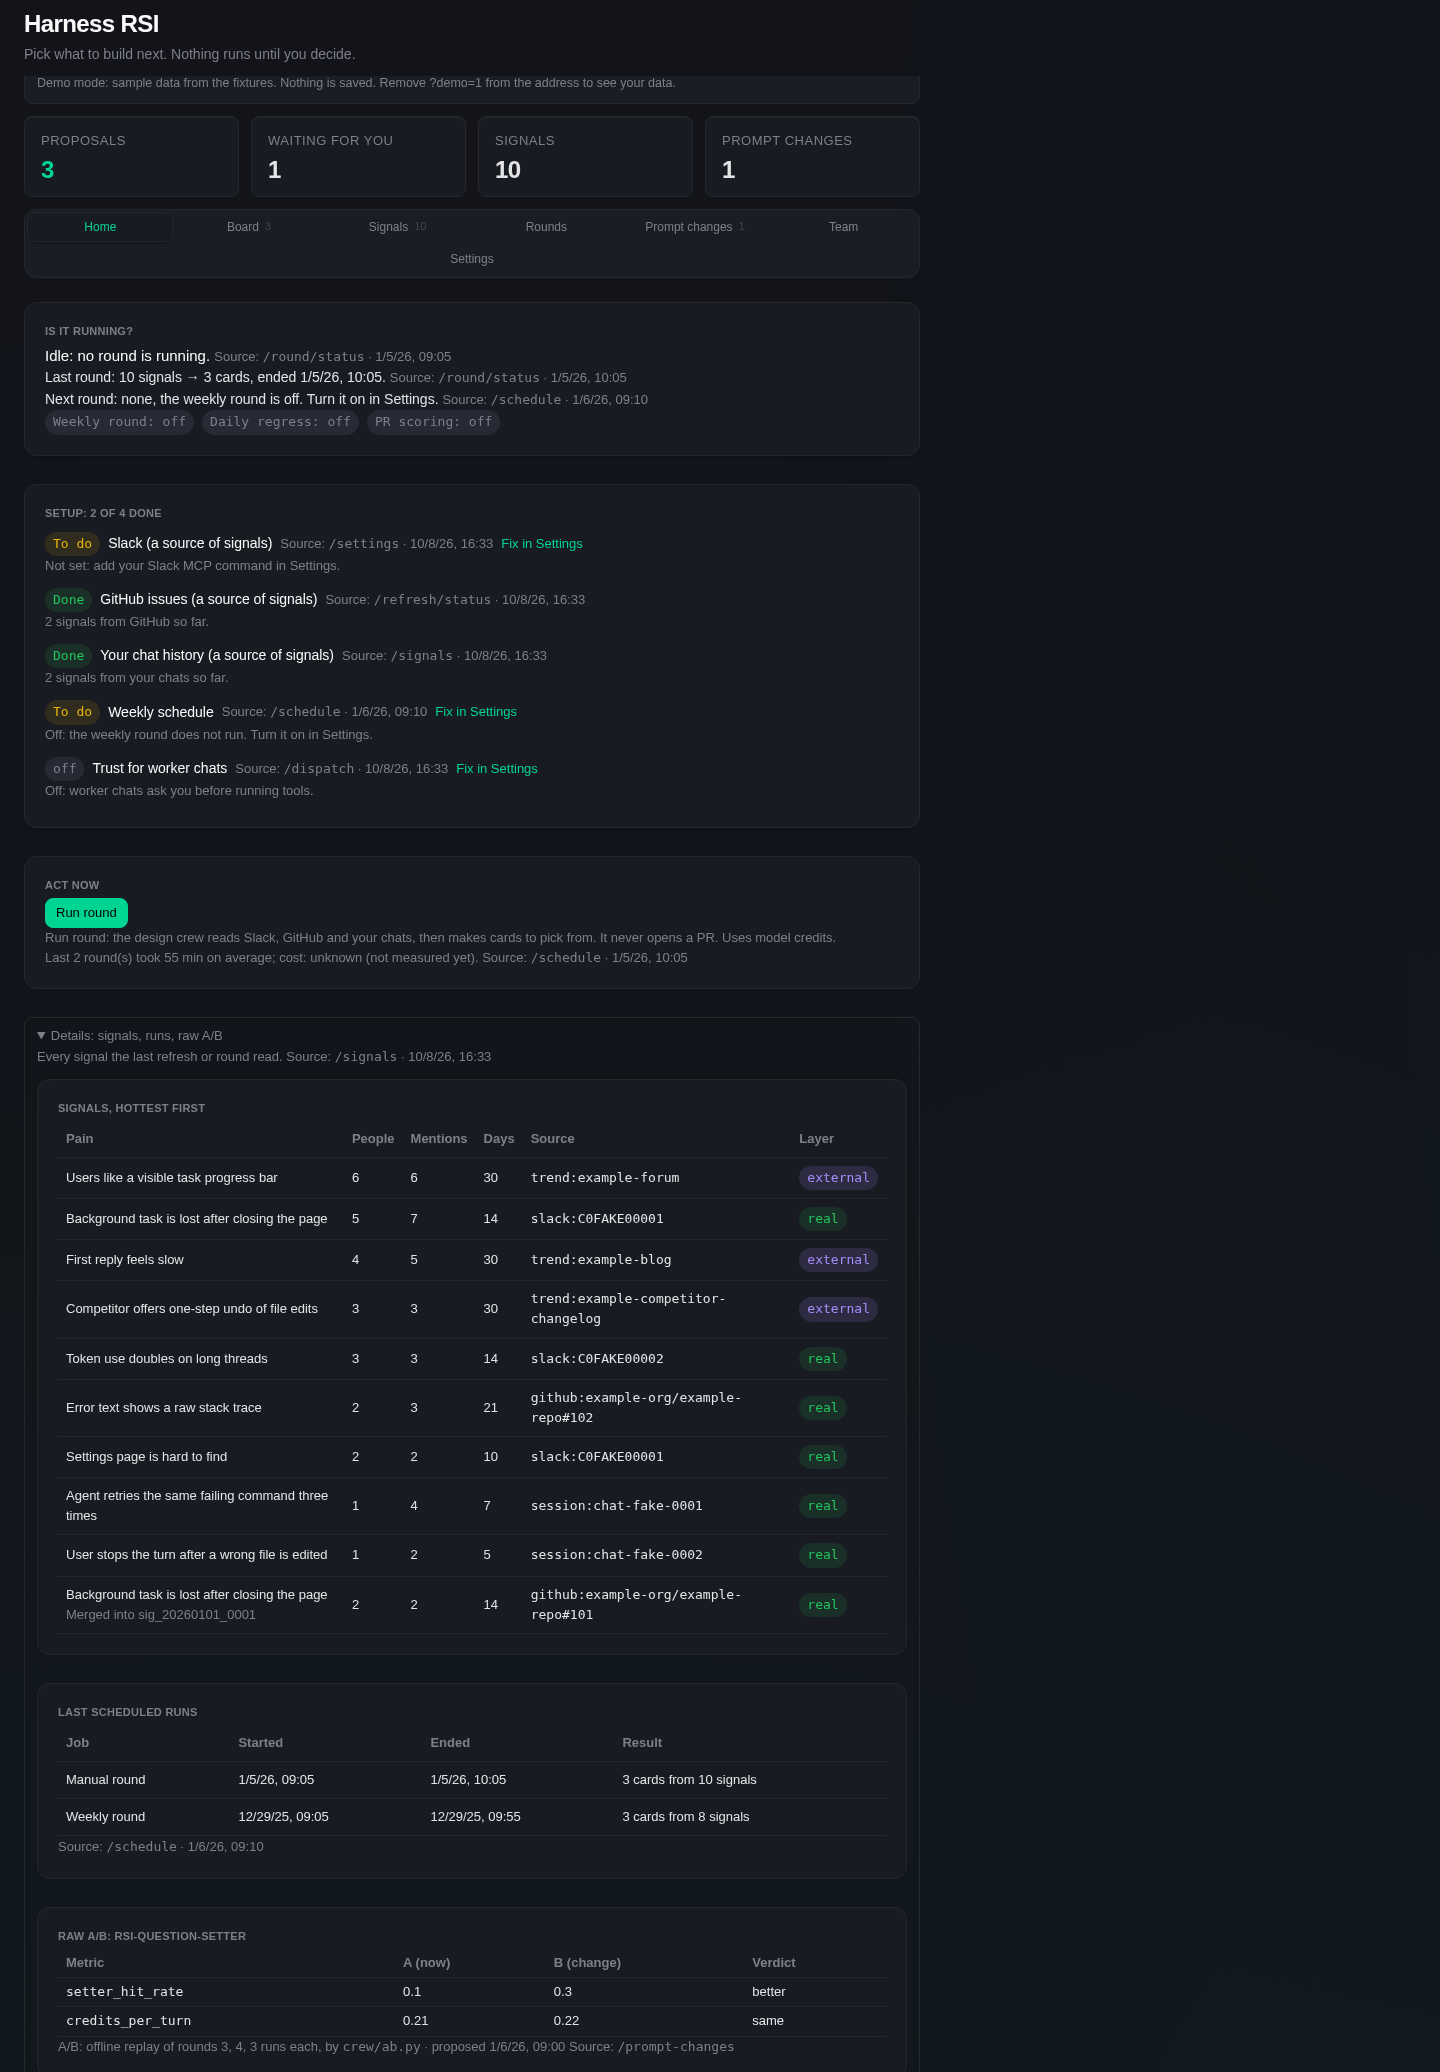
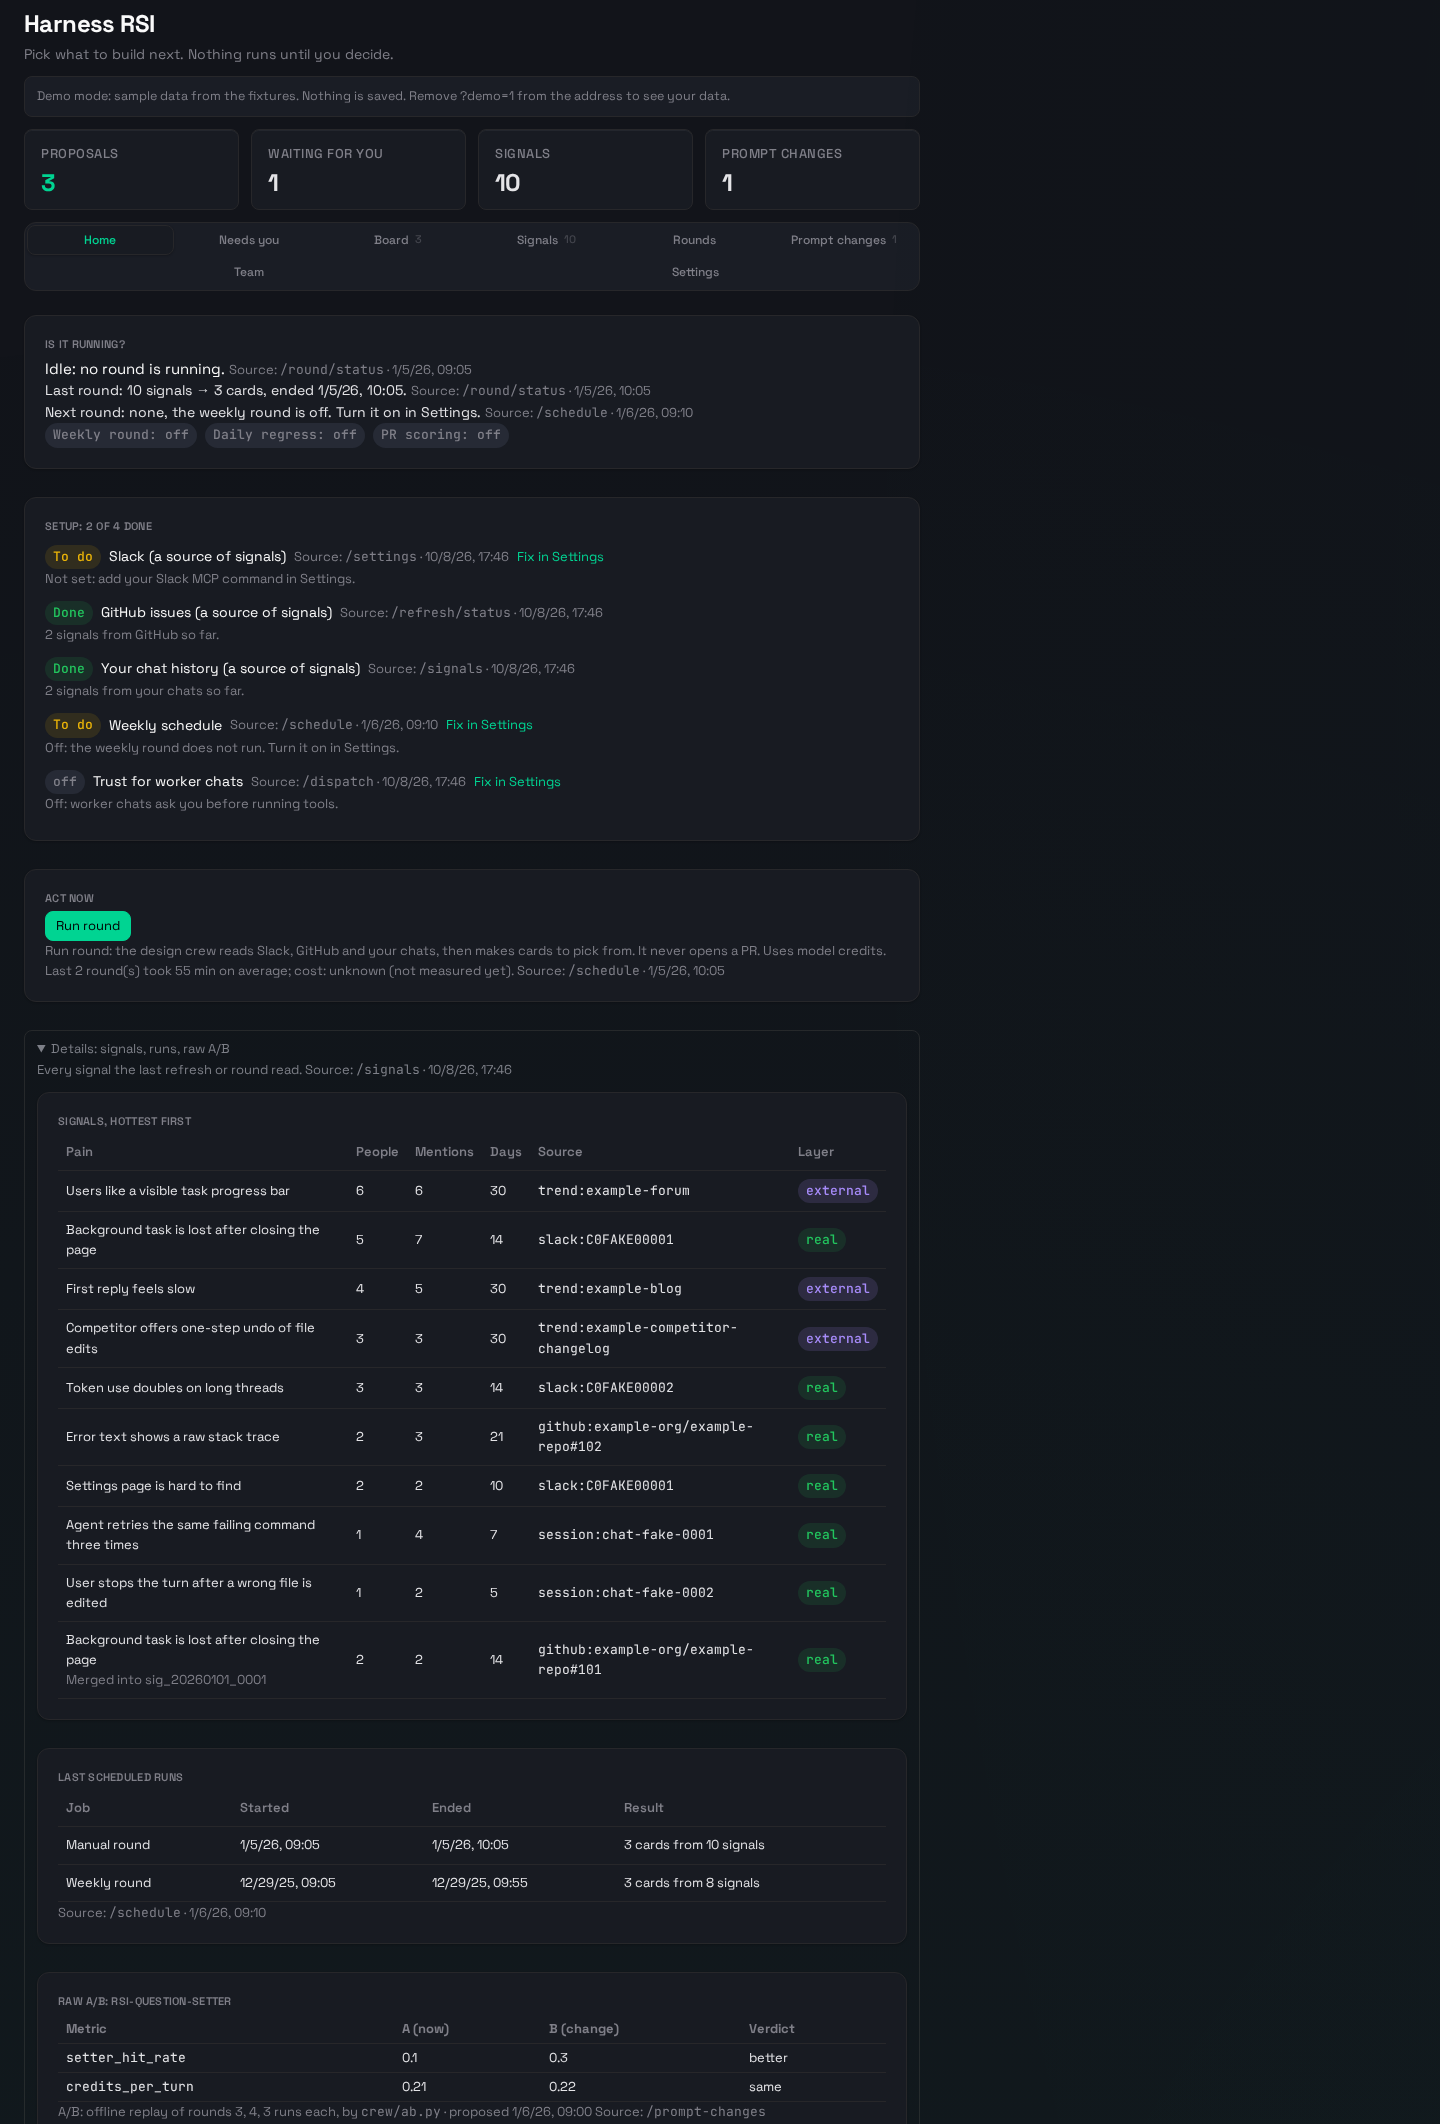
feat(ui): Needs you tab, one queue of what waits on the owner
Needs you sits right after Home, on live data. One queue: cards to pick (Do / Skip / Later), Do cards with no worker chat (Start, with how many are left today), pending prompt changes (Switch to B, with the A/B numbers, when it ran and the command), and what worker chats ask, are stuck on, or want merged (from GET /team, marked self-reported). Each item says why it is here, its evidence with its route and a time, and one action.

GET /dispatch answers used_today: today's (UTC) pending rows, the same rows the daily cap counts. crew/ab.py writes ran_at (start) and command (file names only) into each result, and crew/propose.py --attach carries them onto the card.

diff --git a/crew/ab.py b/crew/ab.py
@@ -147,7 +147,9 @@ def replay(data: Path, agent: str, texts: dict, call: Call, signals: list[dict],
 
 
 def run(data: Path, agent: str, variant: str, call: Call, trees: Callable, rounds: list[int], reps: int,
-        merged_at: dict | None = None, facts: Callable | None = None) -> dict:
+        merged_at: dict | None = None, facts: Callable | None = None, command: str = "") -> dict:
+    """The A/B result: per metric A, B and a verdict; ``ran_at`` (start, UTC) and ``command`` say when and how it ran."""
+    ran_at = dt.datetime.now(dt.timezone.utc).isoformat(timespec="seconds")
     if found := prompts.leaks(variant, prompts.bank(data)):
         raise ValueError(f"variant names {len(found)} exam(s); exams never go into prompts")
     texts = prompts.effective(data)
@@ -168,7 +170,8 @@ def run(data: Path, agent: str, variant: str, call: Call, trees: Callable, round
     metrics = {m: {"A": mean(a), "B": mean(samples["B"][m]), "verdict": verdict(m, a, samples["B"][m]),
                    "samples": {"A": a, "B": samples["B"][m]}} for m, a in samples["A"].items()}
     return {"agent": agent, "A": prompts.version(texts[agent]), "B": prompts.version(variant), "rounds": sorted(saved_rounds(data, rounds)),
-            "reps": reps, "metrics": metrics, "failures": {k: dict(v) for k, v in why.items()}, "at": dt.datetime.now(dt.timezone.utc).isoformat()}
+            "reps": reps, "metrics": metrics, "failures": {k: dict(v) for k, v in why.items()}, "at": dt.datetime.now(dt.timezone.utc).isoformat(),
+            "ran_at": ran_at, "command": command}
 
 
 def kiro_call(run_dir: Path) -> Call:
@@ -206,6 +209,12 @@ def merged_dates(data: Path) -> dict:  # KiroCrew PR number -> mergedAt, for the
     return {k[1:]: (v or {}).get("mergedAt") for k, v in json.loads(out)["data"]["repository"].items()}
 
 
+def command_line(args: argparse.Namespace) -> str:
+    """The command as the owner would rerun it: file names only, so no local path reaches the page."""
+    return (f"python3 crew/ab.py --agent {args.agent} --variant {args.variant.name} --kirocrew {args.kirocrew.name} "
+            f"--rounds {' '.join(map(str, args.rounds))} --reps {args.reps}")
+
+
 def main(argv: list[str]) -> int:
     ap = argparse.ArgumentParser(description=__doc__.split("\n")[0])
     ap.add_argument("--agent", required=True, choices=[rr.SETTER, *reduce.REVIEWERS])
@@ -217,7 +226,7 @@ def main(argv: list[str]) -> int:
     data = Path(os.environ.get("HARNESS_RSI_DATA", Path.home() / ".kiro/crew/harness-rsi-data"))
     out = run(data, args.agent, args.variant.read_text(encoding="utf-8"), kiro_call(data / "ab" / ".run"),
               tree_maker(args.kirocrew, data / "ab" / "trees"), args.rounds, args.reps,
-              merged_dates(data) if args.agent != rr.SETTER else {}, rr.setter_facts(args.kirocrew, data / "exams"))
+              merged_dates(data) if args.agent != rr.SETTER else {}, rr.setter_facts(args.kirocrew, data / "exams"), command_line(args))
     (data / "ab" / f"{args.agent}-{out['A']}-{out['B']}.json").write_text(json.dumps(out, indent=1) + "\n", encoding="utf-8")
     print(json.dumps({m: {k: v[k] for k in ("A", "B", "verdict")} for m, v in out["metrics"].items()}))
     return 0

diff --git a/tests/backend/test_dispatch.py b/tests/backend/test_dispatch.py
@@ -47,7 +47,7 @@ def do(card=CARD, decision="do"):
 
 
 def test_off_by_default_dispatches_nothing(opened, tmp_path):
-    assert dispatch.read() == dispatch.DEFAULTS and dispatch.DEFAULTS["auto_dispatch"] is False
+    assert dispatch.read() == {**dispatch.DEFAULTS, "used_today": 0} and dispatch.DEFAULTS["auto_dispatch"] is False
     assert do() == (200, {"ok": True, "appended": True})
     assert opened == [] and not (tmp_path / dispatch.FILE).exists()
 
@@ -120,7 +120,7 @@ def test_a_prompt_change_card_never_dispatches(opened, monkeypatch, tmp_path):
 
 
 def test_settings_are_owner_only_and_validated(opened, monkeypatch):
-    assert call(routes._dispatch_get)[1]["dispatch"] == dispatch.DEFAULTS
+    assert call(routes._dispatch_get)[1]["dispatch"] == {**dispatch.DEFAULTS, "used_today": 0}
     assert call(routes._dispatch_post, Req({"auto_dispatch": True}, internal_auth=True))[0] == 403
     for bad in ({"auto_dispatch": "yes"}, {"trust_dispatched": 1}, {"daily_cap": 0}, {"daily_cap": 11}, {"repos": ["not a repo"]}, {"repos": "o/r"}):
         assert call(routes._dispatch_post, Req(bad))[0] == 400, bad
@@ -319,3 +319,26 @@ def test_the_lead_checks_trust_first_and_files_its_lanes():
 def test_every_lane_files_its_workers_in_its_own_subfolder(lane):
     text = (AGENTS / "prompts" / f"rsi-lane-{lane}.md").read_text(encoding="utf-8")
     assert f'every session_create you make passes folder "Harness RSI/rounds/<round>/{lane}"' in text
+
+
+def test_get_dispatch_says_how_many_dispatches_the_cap_counted_today(opened, tmp_path):
+    """``used_today`` counts today's pending rows (one per attempt, what the cap counts), never another day's or a refusal."""
+    import datetime as dt
+    rows = [{"card_id": "prop_a", "state": "pending", "at": "2026-10-08T01:00:00+00:00"},
+            {"card_id": "prop_a", "state": "dispatched", "at": "2026-10-08T01:00:05+00:00"},
+            {"card_id": "prop_b", "state": "pending", "at": "2026-10-08T23:59:00+00:00"},
+            {"card_id": "prop_c", "state": "pending", "at": "2026-10-07T23:59:00+00:00"},
+            {"card_id": "prop_d", "state": "error", "error": "daily cap of 2 reached; try tomorrow", "at": "2026-10-08T12:00:00+00:00"}]
+    (tmp_path / dispatch.FILE).write_text("".join(json.dumps(r) + "\n" for r in rows))
+    day = lambda: dt.datetime(2026, 10, 8, 18, tzinfo=dt.timezone.utc)  # noqa: E731
+    assert dispatch.used_today(day) == 2 and dispatch.read(day)["used_today"] == 2
+    assert dispatch.read(lambda: dt.datetime(2026, 10, 9, tzinfo=dt.timezone.utc))["used_today"] == 0
+
+
+def test_a_started_dispatch_counts_in_used_today_and_a_refusal_does_not(opened, monkeypatch):
+    monkeypatch.setattr(dispatch, "saved", lambda: {**dispatch.DEFAULTS, "daily_cap": 1})
+    do(FRESH)
+    assert call(routes._dispatch_get)[1]["dispatch"]["used_today"] == 0
+    assert [r["result"] for r in start(DO, FRESH)[1]["results"]] == ["started", "over_cap"]
+    got = call(routes._dispatch_get)[1]["dispatch"]
+    assert got["used_today"] == 1 and got["daily_cap"] == 1

diff --git a/backend/dispatch.py b/backend/dispatch.py
@@ -44,7 +44,7 @@ def validate(patch, current):
     return new, errors
 
 
-def read():
+def saved():
     """The owner's settings; no vault (tests, a bare CLI) or a bad value reads as off."""
     try:
         secret = settings._vault().get(VAULT_NAME)
@@ -54,12 +54,23 @@ def read():
     return DEFAULTS if errors else new
 
 
-def write(conf):
-    settings._vault().set_sync(VAULT_NAME, json.dumps({k: conf[k] for k in DEFAULTS}))
+def read(clock=None):
+    """``GET /dispatch``: the settings plus ``used_today``, the dispatches the daily cap has counted today (UTC)."""
+    return {**saved(), "used_today": used_today(clock or now)}
+
+
+def write(new):
+    settings._vault().set_sync(VAULT_NAME, json.dumps({k: new[k] for k in DEFAULTS}))
 
 
 def now():
     return dt.datetime.now(dt.timezone.utc)
+
+
+def used_today(clock=now):
+    """How many dispatch attempts started today (UTC): one ``pending`` row each, which is what the cap counts."""
+    day = clock().date().isoformat()
+    return sum(1 for r in store._jsonl(FILE) if isinstance(r, dict) and r.get("state") == "pending" and str(r.get("at", "")).startswith(day))
 
 
 def rows():
@@ -89,8 +100,7 @@ def claim(card_id, conf, clock=now, record=True):
         if old and old["state"] in ("pending", "dispatched"):
             return old, "already"
         t = clock()
-        day = t.date().isoformat()  # each attempt writes one pending row: that is what the cap counts
-        today = sum(1 for r in store._jsonl(FILE) if isinstance(r, dict) and r.get("state") == "pending" and str(r.get("at", "")).startswith(day))
+        today = used_today(lambda: t)
         row = {"card_id": card_id, "repo": TARGET, "state": "pending", "session": None, "error": "", "at": t.isoformat(timespec="seconds")}
         if TARGET not in conf["repos"]:
             bad = {**row, "state": "error", "error": f"{TARGET} is not on the allowlist in Settings"}

diff --git a/tests/crew/test_ab.py b/tests/crew/test_ab.py
@@ -100,3 +100,18 @@ def test_a_head_failure_names_its_error_class_not_the_exam(tmp_path):
     assert ab.error_class(check, tmp_path) == "ModuleNotFoundError"
     assert ab.error_class({"kind": "exit_code", "cmd": ["false"], "expect": 0}, tmp_path) == "exit 1"
     assert ab.error_class({"kind": "file_assert"}, tmp_path) == "file_assert"
+
+
+def test_an_ab_result_records_when_and_how_it_ran(tmp_path):
+    sigs, trees = setup(tmp_path)
+    call = lambda agent, text, message: (setter_reply(sigs, "fixed.txt"), 1.0)  # noqa: E731
+    cmd = "python3 crew/ab.py --agent rsi-question-setter --variant b.md --kirocrew KiroCrew --rounds 3 --reps 1"
+    out = ab.run(tmp_path, SETTER, prompts.effective(tmp_path)[SETTER] + "\nB.", call, trees, [3], 1, command=cmd)
+    assert out["command"] == cmd and out["ran_at"] <= out["at"] and out["ran_at"].endswith("+00:00")
+
+
+def test_the_recorded_command_names_files_not_local_paths():
+    import argparse
+    args = argparse.Namespace(agent=SETTER, variant=pathlib.Path("/home/someone/drafts/b.md"), kirocrew=pathlib.Path("/src/KiroCrew"),
+                              rounds=[3, 4], reps=2)
+    assert ab.command_line(args) == f"python3 crew/ab.py --agent {SETTER} --variant b.md --kirocrew KiroCrew --rounds 3 4 --reps 2"

diff --git a/tests/backend/test_prompt_changes.py b/tests/backend/test_prompt_changes.py
@@ -48,6 +48,10 @@ def test_proposer_sees_counts_not_exams_and_writes_one_pending_change(data):
     with pytest.raises(ValueError, match="did not test this change"):
         propose.attach(data, card["id"], AB)
     assert propose.attach(data, card["id"], {**AB, "B": card["to"]})["ab"]["metrics"]["setter_hit_rate"]["verdict"] == "same"
+    # the card carries when and how the A/B ran, so Needs you can show it; an older A/B has neither
+    got = propose.attach(data, card["id"], {**AB, "B": card["to"], "ran_at": "2026-10-08T09:00:00+00:00", "command": "python3 crew/ab.py --agent x"})["ab"]
+    assert (got["ran_at"], got["command"]) == ("2026-10-08T09:00:00+00:00", "python3 crew/ab.py --agent x")
+    assert [c["ab"]["ran_at"] for c in prompt_changes.read()] == ["2026-10-08T09:00:00+00:00"]
 
 
 @pytest.mark.parametrize("reply", [{"prompt": "Write exam_bank_hidden_probe again.", "summary": "x"},

diff --git a/crew/propose.py b/crew/propose.py
@@ -83,7 +83,8 @@ def attach(data: Path, change_id: str, ab: dict) -> dict:
     if (ab["agent"], ab["B"]) != (card["agent"], card["to"]):
         raise ValueError("that A/B did not test this change")
     card["ab"] = {"rounds": ab["rounds"], "reps": ab["reps"], "A": ab["A"], "B": ab["B"],
-                  "metrics": {m: {k: v[k] for k in ("A", "B", "verdict")} for m, v in ab["metrics"].items()}}
+                  "metrics": {m: {k: v[k] for k in ("A", "B", "verdict")} for m, v in ab["metrics"].items()},
+                  "ran_at": ab.get("ran_at"), "command": ab.get("command")}
     save(data, card)
     return card
 

diff --git a/docs/design/ux-v2.md b/docs/design/ux-v2.md
@@ -130,9 +130,9 @@ flowchart LR
 |---|---|---|
 | 没有下一轮时间 | 首页「下一轮」 | 已补：`GET /schedule` 返回 `next_round_at`（用 `round_due` 同一套规则） |
 | 没有每轮时长和花费 | 「运行一轮」的花费说明 | 已补：每行写 `duration_s` 和 `cost`（额度；小组还不报时为空，页面写「不知道」）；手动一轮记为 `manual_round`；`GET /schedule` 的 `round_stats` 给近 3 轮平均 |
-| 没有 A/B 的运行时间和命令 | 「换成 B」的证据 | `crew/ab.py` 在 `ab` 里写 `ran_at` 和 `command` |
+| 没有 A/B 的运行时间和命令 | 「换成 B」的证据 | 已补：`crew/ab.py` 在结果里写 `ran_at`（开始时间）和 `command`（只写文件名），`crew/propose.py --attach` 把它们带到卡片上；旧的 A/B 没有，页面写「没记下」 |
 | 没有 CI 状态 | 进行中的「CI」格、合并 PR 的证据 | `GET /outcomes` 带上 PR 的检查汇总 |
-| 没有今天已用名额 | 「开工作对话」的名额说明 | `GET /dispatch` 返回 `used_today` |
+| 没有今天已用名额 | 「开工作对话」的名额说明 | 已补：`GET /dispatch` 返回 `used_today`（今天按 UTC 算，和每日上限数的是同一种行） |
 | GitHub 仓库和会话来源没有设置 | 设置的来源区 | 各加一项设置和状态 |
 
 ## 7. 不做什么
